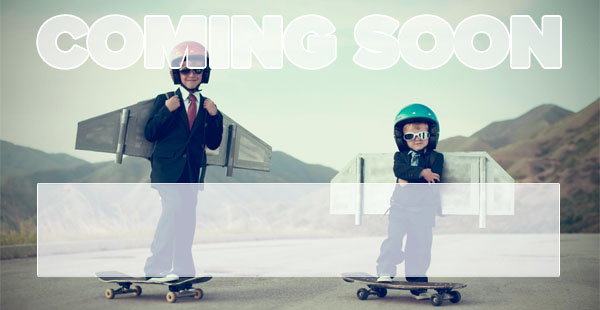
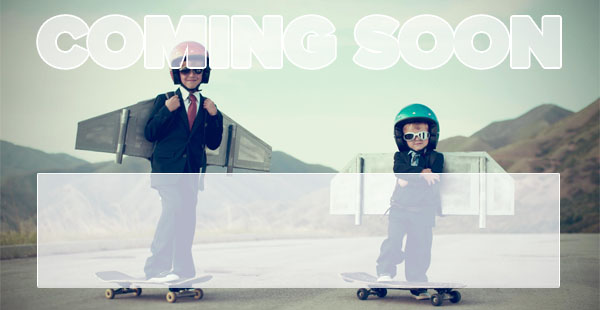
no background on expense

Changed region(s): [[0.06, 0.871, 0.96, 0.929], [0.06, 0.5516, 0.93, 0.6097]]

diff --git a/web/js/landing-page.js b/web/js/landing-page.js
@@ -73,3 +73,16 @@ $(document).scroll(function() {
 
 });
 
+
+$(document).ready(function(){
+    $('a[href^="#"]').on('click',function (e) {
+        e.preventDefault();
+        var target = this.hash,
+        $target = $(target);
+        $('html, body').stop().animate({
+            'scrollTop': $target.offset().top
+        }, 900, 'swing', function () {
+            window.location.hash = target;
+        });
+    });
+});

diff --git a/web/css/landing-page.css b/web/css/landing-page.css
@@ -405,7 +405,7 @@ footer li{
 .modal{
 	margin-top: 60px;
 	background-image: url(' ../img/landing-page/modal-bck.jpg');
-	background-size: 100% auto;
+	background-size: cover;
 	color:#242728;
   	text-shadow:#FFFFFF 0 1px 5px;
   	padding-top: 10px;

diff --git a/web/css/frame.css b/web/css/frame.css
@@ -139,9 +139,6 @@ header{
 .frame .row{
 	margin-top: 20px;
 	margin-bottom: 20px;
-	border-radius: 10px 10px 10px 10px;
-    box-shadow: 0 1px 2px rgba(0, 0, 0, 0.1);
-    background-color: rgba(255, 255, 255, 0.6)
 }
 
 
